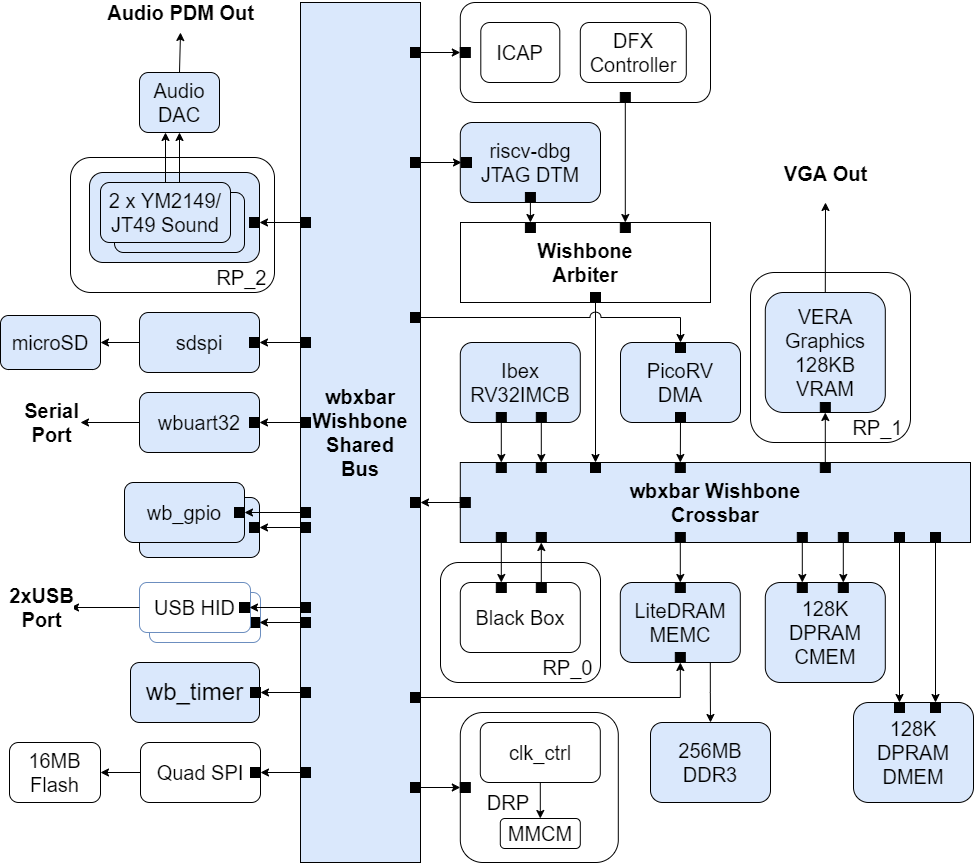
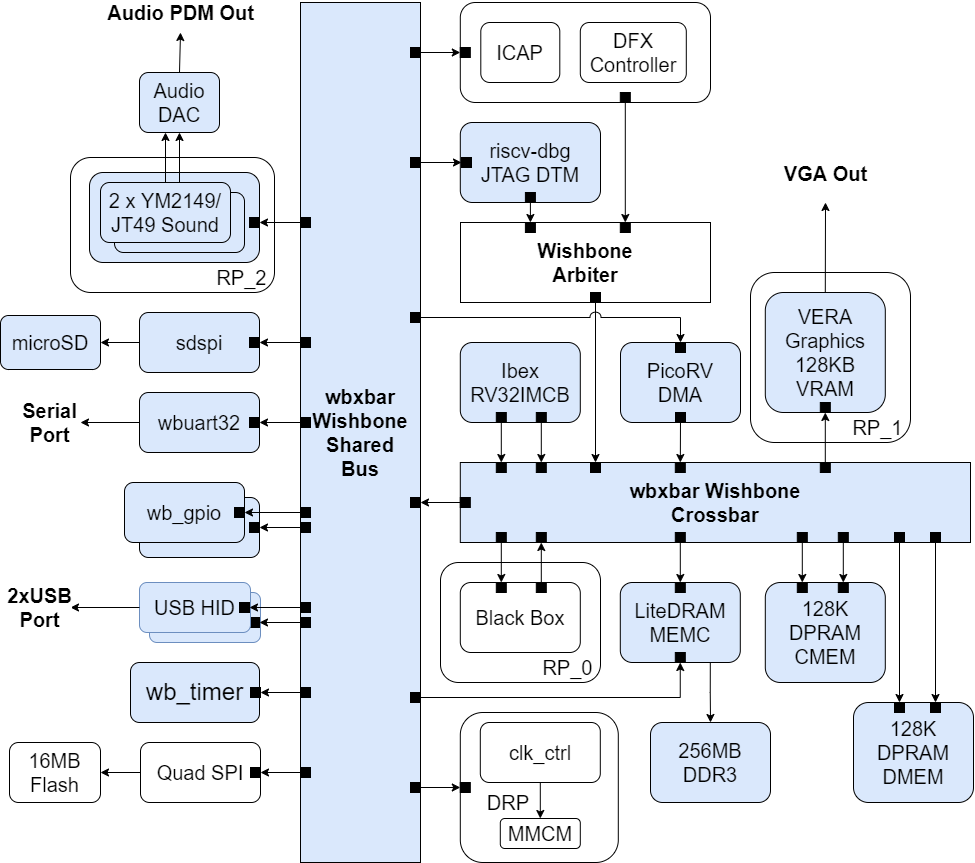
usb hid post assets

diff --git a/docs/estimated-fpga-utilization.md b/docs/estimated-fpga-utilization.md
@@ -11,21 +11,19 @@ Estimated FPGA Resource Utilization on Arty A7-100T
 |**Block RAM Tile**|64|40|0|0|0|1|
 |**DSPs**|0|0|1|0|2|0|
 
-| Resources Type | PicoRV DMA | sdspi | wbi2c | wbuart | Quad SPI | ps2 keyb.+mouse |
+| Resources Type | PicoRV DMA | sdspi | wbi2c | wbuart | Quad SPI | 2xUSB HID |
 |----------------|------------|-------|-------|--------|----------|-----------|
-|**Slice LUTs**|2522|536|393|438|440|410|
-|**Slice Registers**|1359|749|324|346|641|370|
-|**Block RAM Tile**|1|1|0|0|0|0|
+|**Slice LUTs**|2522|536|393|438|440|694|
+|**Slice Registers**|1359|749|324|346|641|988|
+|**Block RAM Tile**|1|1|0|0|0|1|
 |**DSPs**|0|0|0|0|0|0|
 
-| Resources Type | Margin Pct. | Total (incl. margin) | Avl. Resources | Pct. Utilization |
-|----------------|-------------|----------------------|----------------|------------------|
-|**Slice LUTs**|20.00%|24893|63400|39%|
-|**Slice Registers**|20.00%|11483|126800|9%|
-|**Block RAM Tile**|20.00%|128|135|**95%**|
-|**DSPs**|20.00%|4|240|1.67%|
-
-I added a 20% margin overall for the bus fabric and for components I haven't included yet.
+| Resources Type | Interconnect | Total | Avl. Resources | Pct. Utilization |
+|----------------|-------------|--------|----------------|------------------|
+|**Slice LUTs**|2846|23874|63400|38%|
+|**Slice Registers**|2022|12209|126800|10%|
+|**Block RAM Tile**|0|108|135|80%|
+|**DSPs**|0|3|240|1%|
 
 Estimated FPGA Resource Utilization on Arty A7-35T
 --------------------------------------------------
@@ -37,16 +35,18 @@ Estimated FPGA Resource Utilization on Arty A7-35T
 |**Block RAM Tile**|**16**|24|0|0|0|1|
 |**DSPs**|0|0|1|0|2|0|
 
-| Resources Type | PicoRV DMA | sdspi | wbi2c | wbuart | Quad SPI | ps2 keyb.+mouse |
+| Resources Type | PicoRV DMA | sdspi | wbi2c | wbuart | Quad SPI | 2xUSB HID |
 |----------------|------------|-------|-------|--------|----------|-----------|
-|**Slice LUTs**|2522|536|393|438|440|410|
-|**Slice Registers**|1359|749|324|346|641|370|
-|**Block RAM Tile**|1|1|0|0|0|0|
+|**Slice LUTs**|2522|536|393|438|440|694|
+|**Slice Registers**|1359|749|324|346|641|988|
+|**Block RAM Tile**|1|1|0|0|0|1|
 |**DSPs**|0|0|0|0|0|0|
 
-| Resources Type | Margin Pct. | Total (incl. margin) | Avl. Resources | Pct. Utilization |
-|----------------|-------------|----------------------|----------------|------------------|
-|**Slice LUTs**|**5.00%**|20376|20800|**98%**
-|**Slice Registers**|20.00%|11461|41600|28%
-|**Block RAM Tile**|**10.00%**|47|50|**94%**
-|**DSPs**|20.00%|4|90|4.44%
+| Resources Type | Interconnect | Total | Avl. Resources | Pct. Utilization |
+|----------------|--------------|-------|----------------|------------------|
+|**Slice LUTs**|2115|21807|20800|**105%**|
+|**Slice Registers**|1488|11657|41600|28%|
+|**Block RAM Tile**|0|44|50|**88%**|
+|**DSPs**|0|4|90|4.44%|
+
+It looks like we might not be able to fit all components in the A7-35T configuration. However, keep in mind that these are estimates. The numbers associated with the individual components don't necessarily add up when you combine these components into a SoC. There will be some gains and losses. The outcome can be also tweaked a bit depending on routing strategy settings, etc. It's going to be a tight fit for sure, but it might just work out. 

diff --git a/docs/clocks_and_reset.md b/docs/clocks_and_reset.md
@@ -1,7 +1,8 @@
-Clocks and Reset
-================
+## Clocks
 
-The LiteDRAM core contains a PLL Clock Generator providing most of the clocks in the BoxLambda SoC.
+![BoxLambda Clocks](assets/clocks.png)
+
+*BoxLambda's Clocks.*
 
 The following clocks are present in the SoC:
 
@@ -11,10 +12,49 @@ The following clocks are present in the SoC:
 - **ddr_clk**: SDRAM DDR PHY clock running at 4x*sys_clk*, generated by the LiteDRAM core.
 - 200MHz reference clock for IODELAYs, generated and used the LiteDRAM core.
 - **tck**: JTAG clock, driven via a *BSCANE2* primitive by the FPGA's JTAG chain. The *BSCANE2* primitive is instantiated in the *dmi_bscane_tap* module.
+- **usb_clk**: 12MHz clock for the USB HID Host cores.
+  
+## Reset
 
-** FIXME: The reset logic is being reworked and needs to be documented. **
+- **Reset Controller Component in the BoxLambda Directory Tree**: 
+    [boxlambda/gw/components/reset_ctrl](https://github.com/epsilon537/boxlambda/tree/master/gw/components/reset_ctrl)
 
-![Clocks and Reset](assets/clocks_and_reset.png)
+- **Reset Controller Top-Level**:
+    [gw/components/reset_ctrl/rtl/reset_ctrl.sv](https://github.com/epsilon537/boxlambda/blob/master/gw/components/reset_ctrl/rtl/reset_ctrl.sv)
 
-*BoxLambda's Clocks.*
+- **Reset Controller HAL**: TBD
+
+BoxLambda has the following synchronous **Reset Domains**:
+
+- **dm_reset**: Resets the Debug Module Logic in the system clock domain.
+- **ndm_reset**: Resets the Non-Debug Module Logic in the system clock domain.
+- **usb_reset**: Resets the logic in the USB clock domain.
+
+BoxLambda has the following **Reset Sources**:
+
+- **Power-On Reset**: Asserted for a number of clock cycles after Power-On.
+- **External Reset**: Connected to a reset button on the Arty A7 board.
+- **Non-Debug Module Reset Request**: issued by the Debug Module.
+- **Software Reset**: Reset of *dm_reset*, *ndm_reset*, or *usb_reset* domain triggered by software by writing to a *reset_ctrl* register.
+
+The management of these reset domains and reset sources is organized by a **reset_ctrl** module.
+
+![Reset Controller](assets/reset_ctrl.png)
+
+*BoxLambda's Reset Controller.*
+
+The reset_ctrl module code is located here:
+
+[https://github.com/epsilon537/boxlambda/blob/master/gw/components/reset_ctrl/rtl/reset_ctrl.sv](https://github.com/epsilon537/boxlambda/blob/master/gw/components/reset_ctrl/rtl/reset_ctrl.sv)
+
+### Reset Controller Registers
+
+Software can trigger resets by writing to the *Reset Control Register* and retrieve the reason of the most recent reset by reading from the *Reset Reason Register*:
+
+| Address | Name | Bit 7 | Bit 6 | Bit 5 | Bit 4 | Bit 3 | Bit 2 | Bit 1 | Bit 0 |
+|---------|------|-------|-------|-------|-------|-------|-------|-------|-------|
+| 0x10000030 | RESET_CTRL  | - | - | - | - | - | USB_RESET | DM_RESET | NDM_RESET |
+| 0x10000034 | RESET_REASON  | - | - | SW_USB | EXT | NDM | SW_DM | SW_NDM | POR |
+
+The Reset Reason Register's contents are cleared after reading from it (Read-Reset).
 
